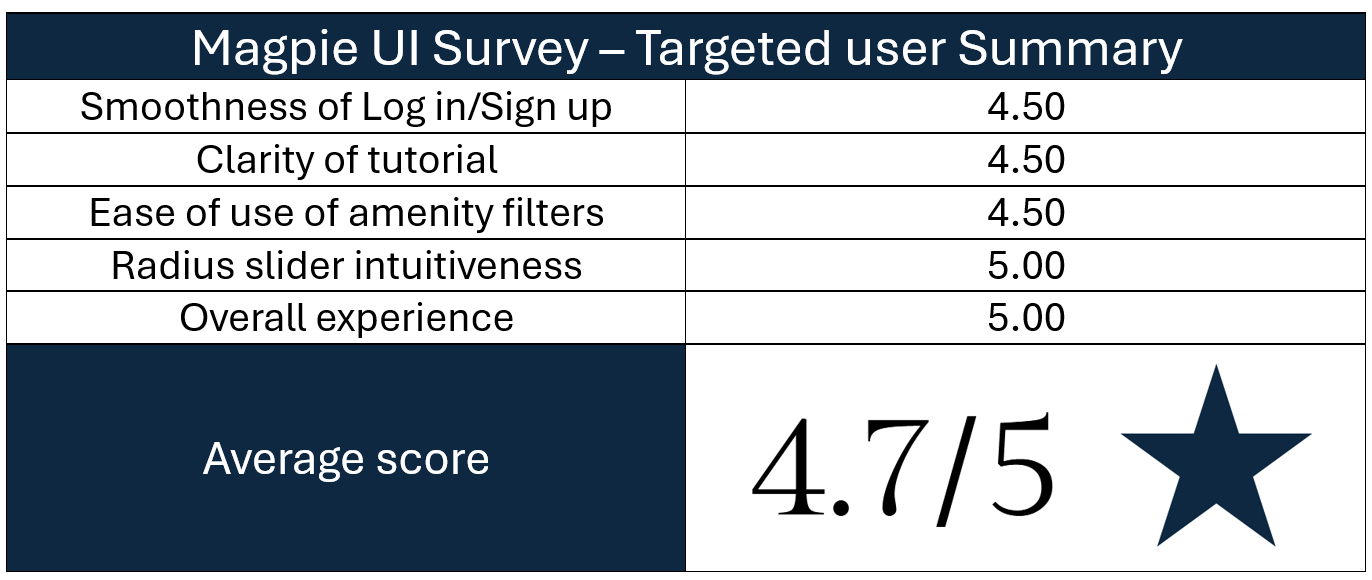
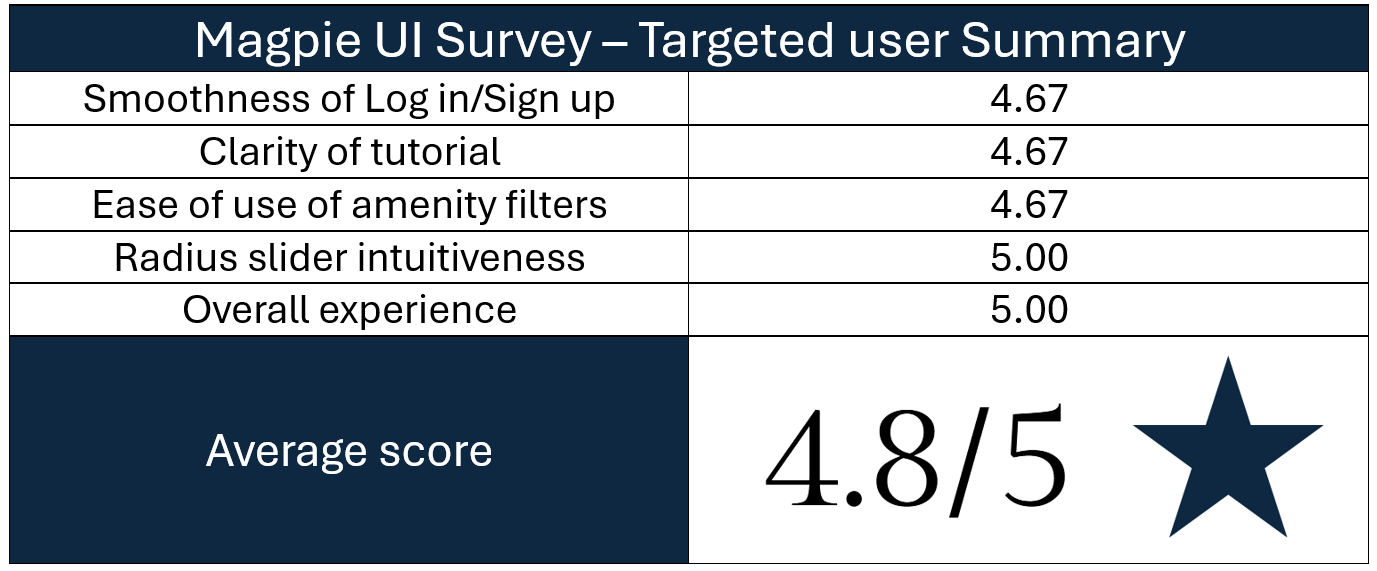
update target user
formatting and FIRST draft done fuck yeah

diff --git a/Documentation/final-report/pages/evaluation/target_evaluation.tex b/Documentation/final-report/pages/evaluation/target_evaluation.tex
@@ -148,13 +148,14 @@ They mostly use amenity data for socio-economic research and consulting for comm
     \caption{User Evaluation - Anonymous 3 information}
 \end{figure}
 
-Before the session started, Anonymous 3 told us they qualified their technological proficiency as `very low' and to be patient with him. This was confirmed when he struggled to share his screen at the start of the session, however he was very comfortable navigating the map, zooming in and out and using the features of the dashboard. Here were the main takeaways:
+\noindent Before the session started, Anonymous 3 told us they qualified their technological proficiency as `very low' and to be patient with him. This was confirmed when he struggled to share his screen at the start of the session, however he was very comfortable navigating the map, zooming in and out and using the features of the dashboard. Here were the main takeaways:
 \begin{itemize}
-    \item \textbf{Amenities:} some minor content changes related to the labelling of amenities, for example `library' should be `public library', `public wifi' should be `free public wifi' etc\ldots Also, it would be beneficial to differentiate the types of bike sharing system (Dublin Bikes, Bleeper, Moby Bikes).\\ More data should be added like schools, public transportation, zoning information, vacant buildings and population data to calculate amenity per capita for example.
-    \item \textbf{Features:} giving the user the chance to draw their own radius could be very interesting. Also, adding a `300 meters' preset for the radius slider would cater to planners more because of the 15 minute walkable rule.\\ This rule defines that 300m is a walkable distance for abled individuals and is used a lot in retail/town planning.
+    \item \textbf{Amenities:} some minor content changes related to the labelling of amenities, for example `library' should be `public library', `public wifi' should be `free public wifi' etc\ldots Also, it would be beneficial to differentiate the types of bike sharing system (Dublin Bikes, Bleeper, Moby Bikes).\\ More data should be added like schools, public transportation, zoning information, vacant buildings and population data to calculate amenity per capita for example.\\
+    \item \textbf{Features:} giving the user the chance to draw their own radius could be very interesting. Also, adding a `300 meters' preset for the radius slider would cater to planners more because of the 15 minute walkable rule.\\ This rule defines that 300m is a walkable distance for abled individuals and is used a lot in retail/town planning.\\
     \item \textbf{Miscellaneous:} Anonymous 3 suggested we take a look at the website \emph{Dublin Smart City} and \emph{POBAL} for more datasets relevant to our project. Improve Magpie with the suggestions above could help with research into evaluating the walkability of Dublin city.
 \end{itemize}
-\textbf{Overall}, Anonymous 3 gave some really interesting feedback, different from the other two targeted users. They believe Magpie has commercial potential but needs a lot more datasets and a lot more details to turn this into the go-to tool for planners in any sector. They expressed how they would've enjoyed having this tool earlier on for their consulting work.\\ They scored Magpie's UI a \underline{4.6 out of 5}, the log in and sign up losing a star for lack of email verification and smoothness.
+\textbf{Overall}, Anonymous 3 gave some really interesting feedback, different from the other two targeted users. They believe Magpie has commercial potential but needs a lot more datasets and a lot more details to turn this into the go-to tool for planners in any sector. They expressed how they would've enjoyed having this tool earlier on for their consulting work.\\ \\
+They scored Magpie's UI a \underline{4.6 out of 5}, the log in and sign up losing a star for lack of email verification and smoothness.
 %odran survey response
 \begin{figure}[h!]
     \centering
@@ -164,3 +165,12 @@ Before the session started, Anonymous 3 told us they qualified their technologic
 
 \newpage
 \subsubsection{Targeted users overview}
+Interviewing these three users was a really amazing experience. It's easy to put all planners into one basket however, they all have different needs, experiences and wants and these sessions really opened our eyes on that.\\ \\
+The main changes these users would like to see are \textbf{more data}, more \textbf{precise information} on the amenity tooltips, an \textbf{export feature} and improvements to the onboarding.\\ \\
+The scores they gave on Magpie's UI averaged to \underline{4.8 out of 5}, which is incredible. This score validates Magpie's project vision and end goal: to create a easy to use tool to give a glance view of amenities in an area.
+%target survey response summary
+\begin{figure}[h!]
+    \centering
+    \includegraphics[width=0.7\textwidth]{images/survey-target-summary.png}
+    \caption{User Evaluation - UI Target Score Average}
+\end{figure}\\
